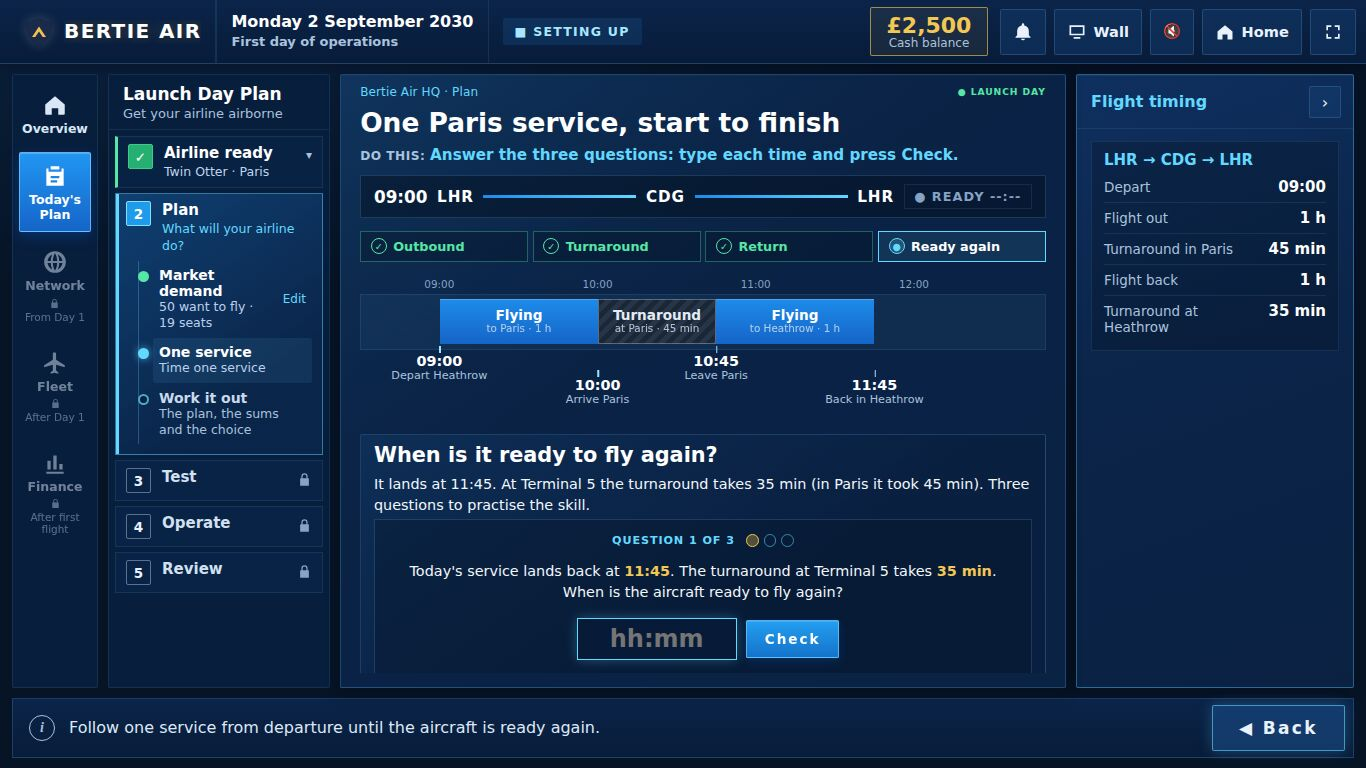
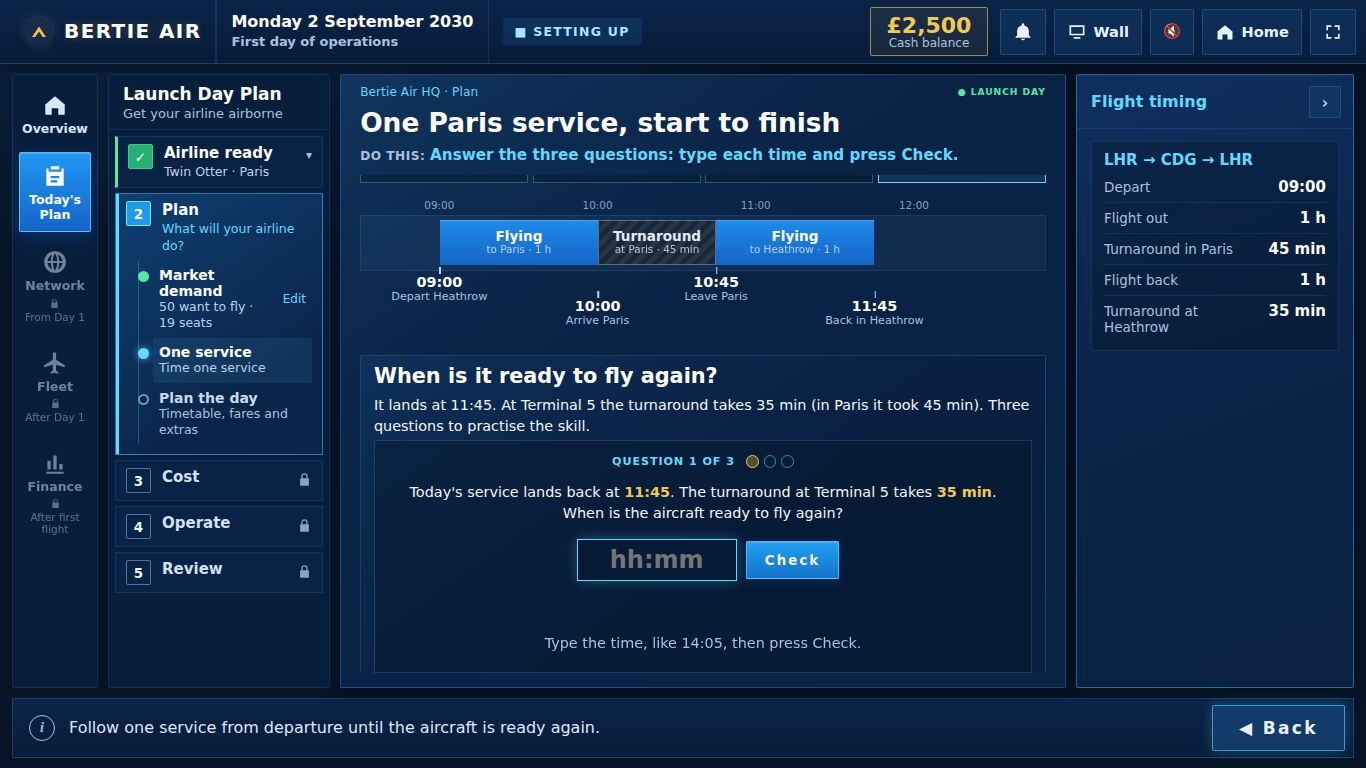
Workings page: count only the pupil's sums, no doubled heading; docs screenshots and the second-round report-back figures
Claude-Session: https://claude.ai/code/session_013x87PezhtynWHJHngTWCer

Changed region(s): [[0.246, 0.2188, 0.7687, 0.875], [0.123, 0.5, 0.2152, 0.5625], [0.123, 0.5938, 0.1537, 0.625]]

diff --git a/airline-opening-prototype.html b/airline-opening-prototype.html
@@ -2601,7 +2601,7 @@ body.rm .ms-in > *{animation:none}
 .pl-idea-g{display:grid;grid-template-columns:minmax(0,1fr);gap:12px;align-items:start}.pl-idea .t2-cmp{width:100%}.pl-idea .pnl-h .btn{margin-left:auto}
 .pl2.idea-open > .pnl:not(.pl-idea):not(:first-child){display:none}
 .ws-planner .pe-svcs .pe-svc,.ws-plan .pe-svcs .pe-svc{min-height:0}.ws-plan .pe.big{gap:8px}.ws-plan .pe-ac{padding-bottom:4px}
-.ws-plan .pnl{padding-top:8px;padding-bottom:8px}.ws-plan .pnl-h{margin-bottom:4px}.ws-plan .pe-sh{margin-bottom:2px}.pl2 .pnl-h .btn.small{margin-left:auto}
+.ws-plan .pnl{padding-top:8px;padding-bottom:8px}.ws-plan .pnl-h{margin-bottom:4px}.ws-plan .pe-sh{margin-bottom:2px}.ws-plan .pe-sum{padding-top:4px}.ws-plan .pe-svcs{gap:4px}.ws-plan .pe-tabs{margin-bottom:4px}.pl2 .pnl-h .btn.small{margin-left:auto}
 .pl-idea .pl-choose{display:flex;gap:8px;margin-top:8px}
 @media (max-width:1200px){.pl-idea-g{grid-template-columns:minmax(0,1fr)}}
 /* the workings page: full screen, squared paper, one sum at a time in the written method */
@@ -10221,7 +10221,7 @@ R.plan = st => {
    ================================================================== */
 /* the first open cell, row by row then column by column */
 function wkNext(tables){ for(const t of tables){ const rows = tRows(t); for(let ri = 0; ri < rows.length; ri++) for(const c of t.cols) if(cellState(t, c, ri) === 'enter') return { t, cell:{ col:c.id, row:rows[ri].id } }; } return null; }
-function wkCells(tables){ const out = [], auto = S.rnd.autoDone || []; tables.forEach(t => { const rows = tRows(t); rows.forEach((r, ri) => t.cols.forEach(c => { const s = cellState(t, c, ri); if(['enter', 'done', 'wait'].includes(s) && !auto.includes(t.id + '|' + cellId(c.id, r.id))) out.push({ t, c, r, s }); })); }); return out; }
+function wkCells(tables){ const out = [], auto = S.rnd.autoDone || []; tables.forEach(t => { const rows = tRows(t); rows.forEach((r, ri) => t.cols.forEach(c => { const s = cellState(t, c, ri); if(rowTyped(t, r) && ['enter', 'done', 'wait'].includes(s) && !auto.includes(t.id + '|' + cellId(c.id, r.id))) out.push({ t, c, r, s }); })); }); return out; }
 /* a figure as it is written down: pounds as whole pounds, litres as a number, a price per litre in pence */
 function wkFig(unit, v){ if(unit === 'ppl') return { s:String(Math.round(v * 100)), note:`${priceL(v)} = ${Math.round(v * 100)}p` }; if(unit === 'dec'){ const h = Math.round(v * 100); return h % 10 === 0 ? { s:String(h / 10), note:`${h / 10} in 10`, tenths:true, div:10 } : { s:String(h), note:`${h} in 100`, tenths:true, div:100 }; } if(unit === '£') return { s:String(Math.round(v)) }; return { s:String(Math.round(v)) }; }
 /* the method, line by line, for Show me and the working rows */
@@ -10280,8 +10280,8 @@ R.workings = st => {
   else if(justDone){ const jt = justDone, [cid, rid] = UI.justDone.cell.split('|'), jc = jt.cols.find(c => c.id === cid), jr = tRows(jt).find(r => r.id === rid);
     body = `<div class="wk-sum"><div class="wk-head"><span class="kl">${esc(jc.label)}</span><h2>&#10003; ${esc(rowLabel(jt, jr))}: ${fmtVal(jr.unit, jc.values[rid])}</h2></div>${wkGrid(jt, jc, jr, { done:true, show:true })}
       <div class="wk-act"><button class="btn primary big" id="wkNext">${wkNext(tables) ? 'Next sum' : needPick || (multi && !picked) ? 'Choose' : 'Finished'} &#9654;</button></div></div>`; }
-  else if(nx){ const q = TOOL[row.tool] ? TOOL[row.tool].name : rowLabel(act, row);
-    body = `<div class="wk-sum"><div class="wk-head"><span class="kl">${esc(col.label)}${col.sub ? ' · ' + esc(col.sub) : ''}</span><h2>${esc(q)}: ${esc(rowLabel(act, row).toLowerCase())}</h2></div>${wkGrid(act, col, row, {})}
+  else if(nx){ const q = TOOL[row.tool] ? TOOL[row.tool].name : rowLabel(act, row), rl = rowLabel(act, row), head = q.toLowerCase() === rl.toLowerCase() ? q : `${q}: ${rl.toLowerCase()}`;
+    body = `<div class="wk-sum"><div class="wk-head"><span class="kl">${esc(col.label)}${col.sub ? ' · ' + esc(col.sub) : ''}</span><h2>${esc(head)}</h2></div>${wkGrid(act, col, row, {})}
       <div class="wk-act"><button class="btn primary big" id="cellCheck">Check &#10003;</button><button class="btn big" id="wkPad" aria-pressed="${!!st.pad}">${st.pad ? 'Hide the number pad' : 'Number pad'}</button>${(UI.tries || 0) >= 3 ? '<button class="link" id="calcShow">Show me</button>' : ''}</div>
       <div class="msg wk-msg ${UI.ok ? 'ok' : ''}" id="ftMsg" role="status">${esc(UI.msg || '')}</div>
       ${st.pad ? `<div class="wk-pad">${['7', '8', '9', '4', '5', '6', '1', '2', '3', '.', '0', '−'].map(x => `<button data-k="${x === '−' ? '-' : x}">${x}</button>`).join('')}<button data-k="back">&#9003;</button></div>` : ''}</div>`; }

diff --git a/src/opening/parts/p4t_workout.js b/src/opening/parts/p4t_workout.js
@@ -106,7 +106,7 @@ R.plan = st => {
    ================================================================== */
 /* the first open cell, row by row then column by column */
 function wkNext(tables){ for(const t of tables){ const rows = tRows(t); for(let ri = 0; ri < rows.length; ri++) for(const c of t.cols) if(cellState(t, c, ri) === 'enter') return { t, cell:{ col:c.id, row:rows[ri].id } }; } return null; }
-function wkCells(tables){ const out = [], auto = S.rnd.autoDone || []; tables.forEach(t => { const rows = tRows(t); rows.forEach((r, ri) => t.cols.forEach(c => { const s = cellState(t, c, ri); if(['enter', 'done', 'wait'].includes(s) && !auto.includes(t.id + '|' + cellId(c.id, r.id))) out.push({ t, c, r, s }); })); }); return out; }
+function wkCells(tables){ const out = [], auto = S.rnd.autoDone || []; tables.forEach(t => { const rows = tRows(t); rows.forEach((r, ri) => t.cols.forEach(c => { const s = cellState(t, c, ri); if(rowTyped(t, r) && ['enter', 'done', 'wait'].includes(s) && !auto.includes(t.id + '|' + cellId(c.id, r.id))) out.push({ t, c, r, s }); })); }); return out; }
 /* a figure as it is written down: pounds as whole pounds, litres as a number, a price per litre in pence */
 function wkFig(unit, v){ if(unit === 'ppl') return { s:String(Math.round(v * 100)), note:`${priceL(v)} = ${Math.round(v * 100)}p` }; if(unit === 'dec'){ const h = Math.round(v * 100); return h % 10 === 0 ? { s:String(h / 10), note:`${h / 10} in 10`, tenths:true, div:10 } : { s:String(h), note:`${h} in 100`, tenths:true, div:100 }; } if(unit === '£') return { s:String(Math.round(v)) }; return { s:String(Math.round(v)) }; }
 /* the method, line by line, for Show me and the working rows */
@@ -165,8 +165,8 @@ R.workings = st => {
   else if(justDone){ const jt = justDone, [cid, rid] = UI.justDone.cell.split('|'), jc = jt.cols.find(c => c.id === cid), jr = tRows(jt).find(r => r.id === rid);
     body = `<div class="wk-sum"><div class="wk-head"><span class="kl">${esc(jc.label)}</span><h2>&#10003; ${esc(rowLabel(jt, jr))}: ${fmtVal(jr.unit, jc.values[rid])}</h2></div>${wkGrid(jt, jc, jr, { done:true, show:true })}
       <div class="wk-act"><button class="btn primary big" id="wkNext">${wkNext(tables) ? 'Next sum' : needPick || (multi && !picked) ? 'Choose' : 'Finished'} &#9654;</button></div></div>`; }
-  else if(nx){ const q = TOOL[row.tool] ? TOOL[row.tool].name : rowLabel(act, row);
-    body = `<div class="wk-sum"><div class="wk-head"><span class="kl">${esc(col.label)}${col.sub ? ' · ' + esc(col.sub) : ''}</span><h2>${esc(q)}: ${esc(rowLabel(act, row).toLowerCase())}</h2></div>${wkGrid(act, col, row, {})}
+  else if(nx){ const q = TOOL[row.tool] ? TOOL[row.tool].name : rowLabel(act, row), rl = rowLabel(act, row), head = q.toLowerCase() === rl.toLowerCase() ? q : `${q}: ${rl.toLowerCase()}`;
+    body = `<div class="wk-sum"><div class="wk-head"><span class="kl">${esc(col.label)}${col.sub ? ' · ' + esc(col.sub) : ''}</span><h2>${esc(head)}</h2></div>${wkGrid(act, col, row, {})}
       <div class="wk-act"><button class="btn primary big" id="cellCheck">Check &#10003;</button><button class="btn big" id="wkPad" aria-pressed="${!!st.pad}">${st.pad ? 'Hide the number pad' : 'Number pad'}</button>${(UI.tries || 0) >= 3 ? '<button class="link" id="calcShow">Show me</button>' : ''}</div>
       <div class="msg wk-msg ${UI.ok ? 'ok' : ''}" id="ftMsg" role="status">${esc(UI.msg || '')}</div>
       ${st.pad ? `<div class="wk-pad">${['7', '8', '9', '4', '5', '6', '1', '2', '3', '.', '0', '−'].map(x => `<button data-k="${x === '−' ? '-' : x}">${x}</button>`).join('')}<button data-k="back">&#9003;</button></div>` : ''}</div>`; }

diff --git a/src/opening/parts/p1_head.html b/src/opening/parts/p1_head.html
@@ -2601,7 +2601,7 @@ body.rm .ms-in > *{animation:none}
 .pl-idea-g{display:grid;grid-template-columns:minmax(0,1fr);gap:12px;align-items:start}.pl-idea .t2-cmp{width:100%}.pl-idea .pnl-h .btn{margin-left:auto}
 .pl2.idea-open > .pnl:not(.pl-idea):not(:first-child){display:none}
 .ws-planner .pe-svcs .pe-svc,.ws-plan .pe-svcs .pe-svc{min-height:0}.ws-plan .pe.big{gap:8px}.ws-plan .pe-ac{padding-bottom:4px}
-.ws-plan .pnl{padding-top:8px;padding-bottom:8px}.ws-plan .pnl-h{margin-bottom:4px}.ws-plan .pe-sh{margin-bottom:2px}.pl2 .pnl-h .btn.small{margin-left:auto}
+.ws-plan .pnl{padding-top:8px;padding-bottom:8px}.ws-plan .pnl-h{margin-bottom:4px}.ws-plan .pe-sh{margin-bottom:2px}.ws-plan .pe-sum{padding-top:4px}.ws-plan .pe-svcs{gap:4px}.ws-plan .pe-tabs{margin-bottom:4px}.pl2 .pnl-h .btn.small{margin-left:auto}
 .pl-idea .pl-choose{display:flex;gap:8px;margin-top:8px}
 @media (max-width:1200px){.pl-idea-g{grid-template-columns:minmax(0,1fr)}}
 /* the workings page: full screen, squared paper, one sum at a time in the written method */

diff --git a/docs/Week-1-Review-Report-Back.md b/docs/Week-1-Review-Report-Back.md
@@ -52,6 +52,6 @@ The test walk counts **12 hand sums in week 1** with practice off (4, 3, 1, 2, 1
 ## Checks
 | Check | Result |
 | --- | --- |
-| Full chapter 1 at 1366 × 768 | see the test lines in the commit; no errors |
-| To day 9 at 1915 × 891; live operations; answers; run-through; engine (with the Red Kite figures) | pass |
+| Full chapter 1 at 1366 × 768 | 361 checks, no failures, no errors; the overflow list is the showroom on days 14/21/22 and the weeks from day 22 (as before), plus the two-aircraft planning page on days 15–21 by 8 px |
+| To day 9 at 1915 × 891 (152 checks, no overflow); live operations to day 8 (103); answers (14); run-through; engine (9, with the Red Kite figures) | pass |
 | Week 1 | 12 Calculate steps with practice off; ≤ 3 multiplications a day; no sum typed outside the workings page; Build absent before day 22 |
